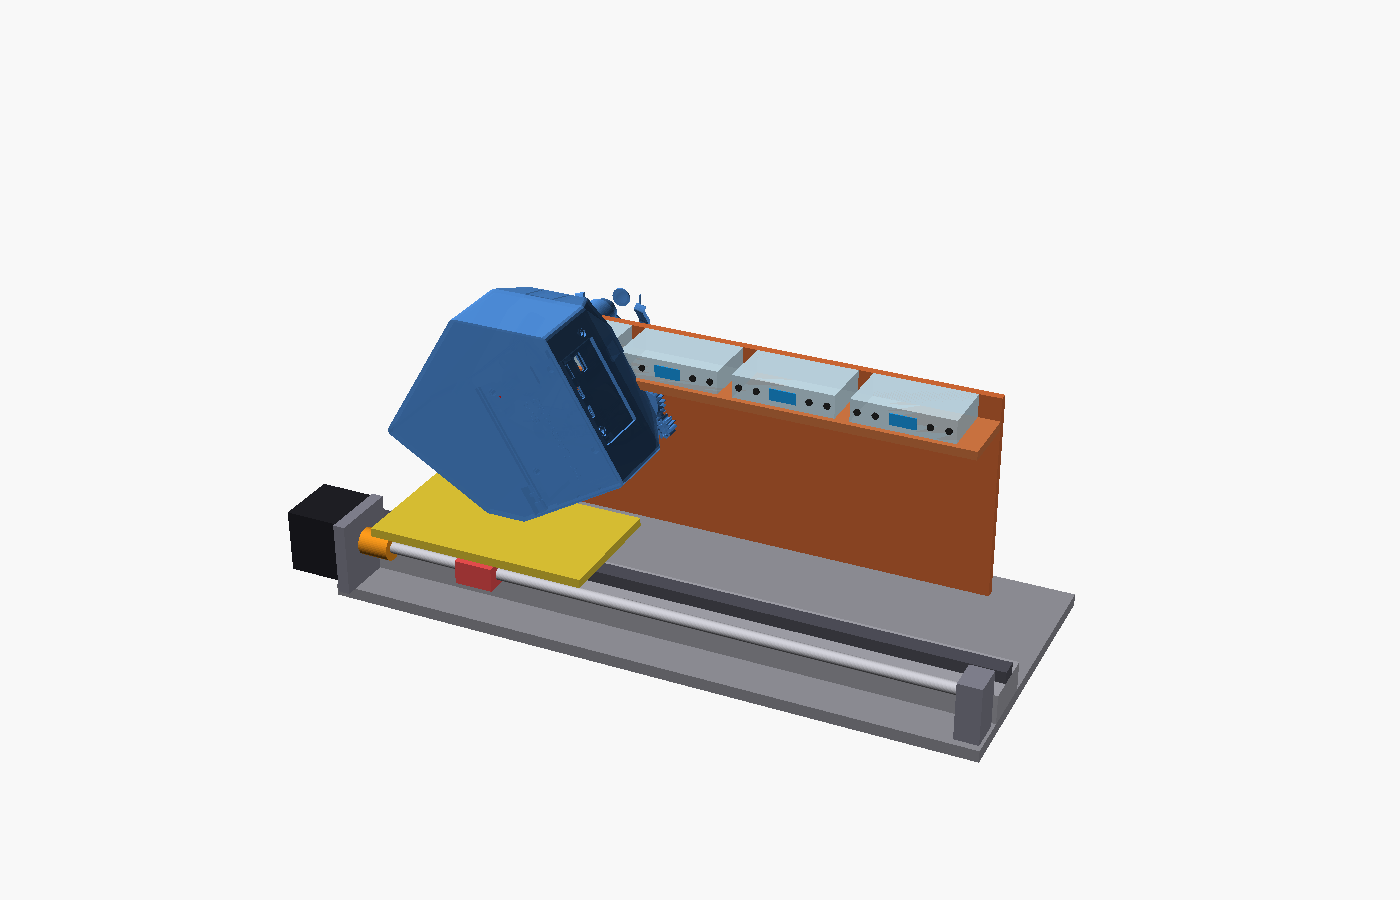
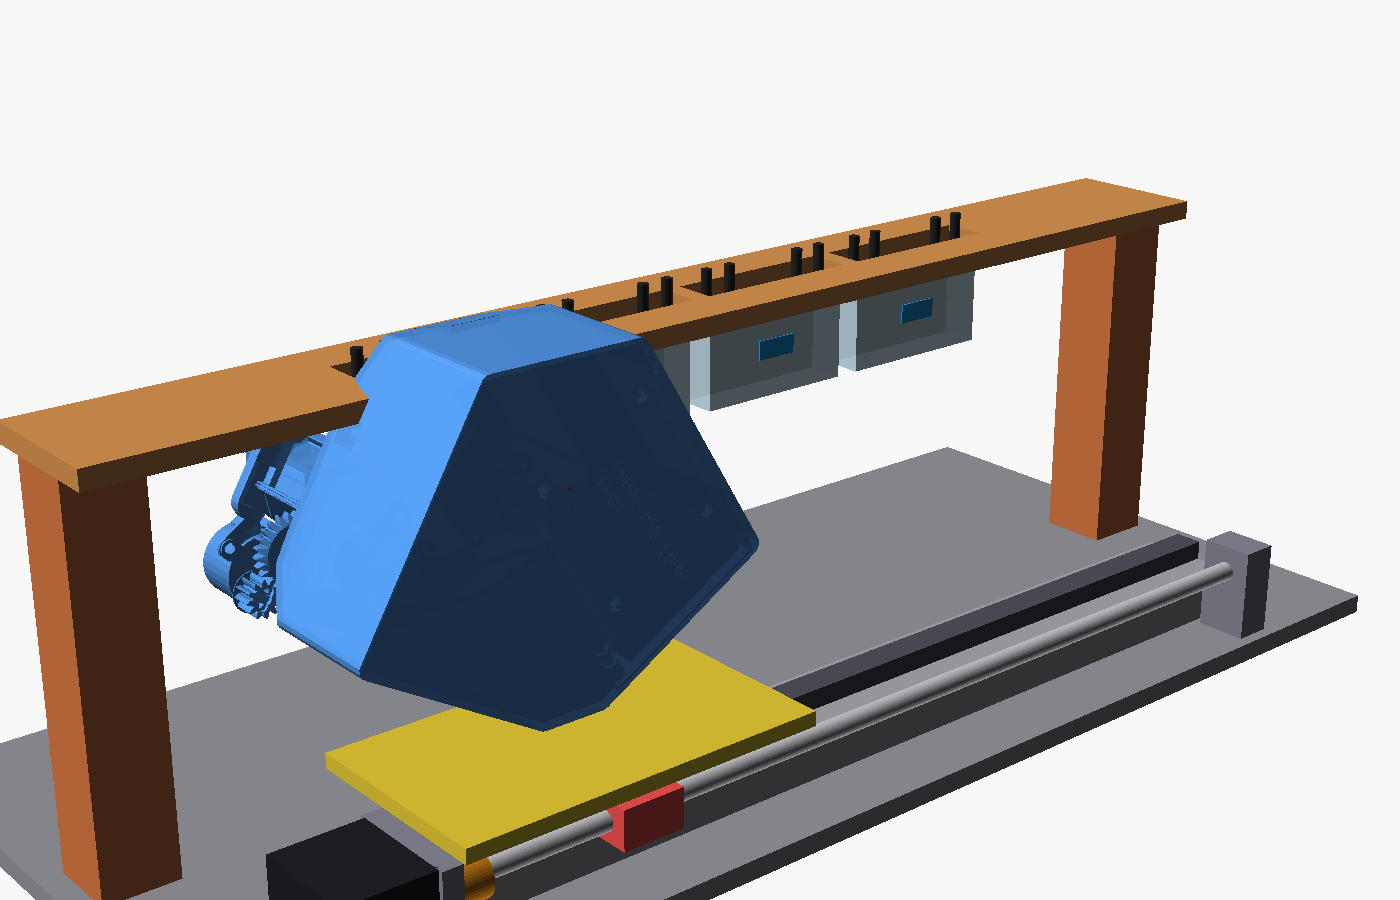
feat: hang bioreactors hochkant from bridge traverse in rail-mount draft
Chips now hang upright (70x16x40, imaged through the 16 mm thickness,
tubes exiting the top) from a continuous traverse board with per-station
cutouts on two end pillars, replacing the shelf/back-wall stand. Space
below the chips stays free for the moving mesoscope and its illumination
arm. Previews re-rendered from better angles.

diff --git a/docs/RAIL_MOUNT_CONCEPT.md b/docs/RAIL_MOUNT_CONCEPT.md
@@ -6,10 +6,11 @@
 >
 > **Schematic massing draft:** `hardware/mount/openscad/rail_mount_mesoscope.scad`
 > (parametric block model — shared **base plate (Grundplatte)**, the rail beam +
-> MGN12 guide under the moving microscope, back-support plate, NEMA17 + T8
-> leadscrew drive, and a **fixed reactor stand** carrying the stationary reactor
-> row). Previews:
-> `rail_mount_preview.png` (3/4) and `rail_mount_top.png` (elevation). This is a
+> MGN12 guide under the moving microscope, NEMA17 + T8 leadscrew drive, and a
+> **reactor bridge (Brücke)**: a continuous traverse board with per-station
+> cutouts from which the chips hang **hochkant**). Previews:
+> `rail_mount_preview.png` (3/4 from the objective side) and
+> `rail_mount_top.png` (3/4 from the light-source side, full row). This is a
 > massing model to make the layout discussable, **not** print-ready geometry.
 >
 > ✅ **Full mesoscope model embedded:** the placeholder envelope box is replaced by
@@ -31,10 +32,22 @@
 >
 > ✅ **Bioreactor STL integrated:** `hardware/bioreactors/chip_senkrecht_mit_bodenplatte.stl`.
 > Base plate (Bodenplatte) removed for the calculations per
-> instruction → chip body **70 × 40 × 16 mm**, optical window **18 × 8 mm**
-> centered on the microscope-facing face, flanked by 4 fluidic ports. Reactor
-> dims in the draft are now real; only the **series pitch** (reactor-to-reactor
-> spacing along X) is still an assumption (80 mm) to confirm.
+> instruction → chip body **70 × 40 × 16 mm**, optical window **18 × 8 mm**,
+> 4 fluidic ports. Only the **series pitch** (reactor-to-reactor spacing along
+> X) is still an assumption (80 mm) to confirm.
+>
+> ✅ **Hochkant + Brücke (2026-08-25):** the chips are now mounted **upright
+> (hochkant)** and **hang from a bridge** — a continuous traverse board
+> ("schmales Brett" in chip dimensions) with per-station cutouts
+> (Aussparungen), carried by two end pillars on the Grundplatte. Imaging goes
+> horizontally **through the 16 mm chip thickness**: light source on the +Y
+> side → chip → objective on the −Y side. The fluidic ports + tubes
+> (Schläuche) exit at the **top** — that is why top access is impossible and
+> the chips must hang, keeping the space **below** free for the moving
+> mesoscope incl. its illumination arm. Open: pillar clearance
+> (`bridge_x_clear = 120 mm` beyond the end stations) vs. microscope width at
+> the end stops, and the travel path of the microscope body under the hanging
+> row.
 
 This document captures the geometry, the mechanical concept, open decisions, and
 the reasoning behind them, so the next session can start from a shared picture.
@@ -50,7 +63,7 @@ imaging head** that scans a **row of bioreactors** arranged in series:
   face of the **Z-axis motor**, so the **optical axis becomes horizontal**.
 - Bind a **linear rail under the microscope** so it rides on a **carriage** in
   **X** (90° to the optical path) — **only the microscope moves.**
-- On the **same base plate (Grundplatte)**, a **fixed stand** holds the
+- On the **same base plate (Grundplatte)**, a **fixed bridge (Brücke)** holds the
   **bioreactors in a stationary row** at a working-distance offset along the
   optical axis. The reactors do **not** move with the carriage.
 - A **separate stepper drive** moves the microscope carriage in X so it travels
@@ -93,22 +106,31 @@ pre-tensioned for.
 ## 3. Mechanical concept — one shared base plate (Grundplatte)
 
 **Key principle:** the **rail (with the moving microscope)** and the **fixed
-reactor stand** both mount to **one rigid base plate (Grundplatte)**. Because
-both are referenced to the same foundation, the **optical-axis-to-sample distance
-is fixed by construction** and cannot drift; the stationary row of reactors stays
-coplanar and parallel to the rail. **Only the microscope travels**; the reactors
-stand still and the imaging head drives along them.
+reactor bridge (Brücke)** both mount to **one rigid base plate (Grundplatte)**.
+Because both are referenced to the same foundation, the **optical-axis-to-sample
+distance is fixed by construction** and cannot drift; the stationary row of
+reactors stays coplanar and parallel to the rail. **Only the microscope
+travels**; the reactors stand still and the imaging head drives along them.
+
+The reactors **hang hochkant from above**: a continuous traverse board
+("schmales Brett" in chip dimensions) spans the row on two end pillars, with a
+cutout (Aussparung) per station from which each chip hangs. The tubes
+(Schläuche) exit the chip tops through/above the board; the space **below** the
+chips stays completely free so the moving mesoscope — whose illumination arm
+sits below/beside the optical axis — can reach every station unobstructed.
 
 ```
-        (side view, gravity ↓)         reactors are FIXED, microscope moves ►
+   (view along the rail, gravity ↓)      reactors FIXED & HANGING, microscope moves ⊙
 
-   ┌───────────┐                         ┌──────────────────────────┐
-   │ Microscope│  optical axis  ───►     │  Fixed reactor row (stand)│
-   │ (tilted)  │═══════════════════════► │  [R1][R2][R3] … [Rn]      │
-   └────┬──────┘                         └───────────┬──────────────┘
-   ═════╪═══════ rail X (under microscope) ═══        │ fixed stand
-     ▲ MGN12 carriage + NEMA17/T8 drive               │
-   ▓▓▓▓▓▓▓▓▓▓▓▓▓▓▓▓▓▓  base plate (Grundplatte) = shared foundation ▓▓▓▓▓▓▓▓▓▓▓▓
+   pillar ─┐  ┌───────────── traverse board (cutouts per station) ─────┐┌─ pillar
+           ▓▓▓▓▓▓▓▓▓▓▓▓▓▓▓▓▓▓▓▓▓▓▓▓▓▓▓▓▓▓▓▓▓▓▓▓▓▓▓▓▓▓▓▓▓▓▓▓▓▓▓▓▓▓▓▓▓▓▓
+           ║        ║ tubes ↑↑            ║                             ║
+           ║      ┌─┴─┐  chip hochkant    ║   ┌───────────┐             ║
+           ║      │ R │◄── optical axis ──╫───│ Microscope│ (tilted)    ║
+           ║      └───┘  (through 16 mm)  ║   │ objective─┘◄─ light arm ║
+           ║   free space below ▼         ║   └────┬──────┘             ║
+           ║                              ║   ═════╪═════ rail X        ║
+   ▓▓▓▓▓▓▓▓▓▓▓▓▓▓▓▓▓  base plate (Grundplatte) = shared foundation ▓▓▓▓▓▓▓▓▓▓▓
 ```
 
 Sub-assemblies:
@@ -116,10 +138,12 @@ Sub-assemblies:
    the adapter interfaces the tilted microscope body (Z-motor face + an
    additional support) to the MGN12 carriage. Must resist the transverse gravity
    moment (long lever arm of the Pi5 + AI HAT + camera + optics tower).
-2. **Fixed reactor stand** — a stationary parametric holder rising from the
-   Grundplatte (back wall + shelf) that holds the reactors in series at the
-   correct height/spacing so each optical window lands on the optical axis. It is
-   **not** attached to the carriage or the rail beam.
+2. **Reactor bridge (Brücke)** — a stationary traverse board with per-station
+   cutouts, on two end pillars rising from the Grundplatte, holding the chips
+   hanging hochkant at the correct height/spacing so each optical window lands
+   on the optical axis. It is **not** attached to the carriage or the rail beam.
+   The pillars stand `bridge_x_clear` beyond the end stations so the microscope
+   body clears them at the end stops.
 
 ---
 
@@ -129,7 +153,7 @@ Decision was left open ("Empfehlungen?"). Recommendation:
 
 | Element | Choice | Rationale |
 |---|---|---|
-| Foundation | **Base plate (Grundplatte)** | Shared reference for the rail and the fixed reactor stand → fixed working distance. |
+| Foundation | **Base plate (Grundplatte)** | Shared reference for the rail and the fixed reactor bridge → fixed working distance. |
 | Structural beam | **2040 V-Slot aluminium extrusion** | Stiff, cheap; carries the rail under the microscope, mounted on the Grundplatte. |
 | Guide | **MGN12 profile rail + carriage** | Low play / high stiffness for the cantilevered microscope mass; clean mounting hole pattern. |
 | Drive | **NEMA17 + T8 leadscrew (anti-backlash nut)** | Self-locking → holds position at each stop without current; no backlash for step-and-image. |
@@ -174,14 +198,20 @@ mounting/handling feature, not part of the reactor envelope.
 
 Measured (base plate excluded):
 
-| Feature | Value | Axis in mount |
+| Feature | Value | Axis in mount (hochkant, hanging) |
 |---|---|---|
 | Chip body width | **70 mm** | X (along rail) |
-| Chip body depth | **40 mm** | Y (toward microscope; plate was the +Y face) |
-| Chip body height | **16 mm** | Z (vertical) |
-| Optical window | **18 × 8 mm**, centered on the microscope-facing (−Y) face, at mid-height | window on optical axis |
-| Fluidic ports | 4 × ⌀ ~4.5 mm, flanking the window on the same face | — |
+| Chip body thickness | **16 mm** | Y (**along the optical axis** — imaged through) |
+| Chip body height | **40 mm** | Z (vertical, hanging from the bridge) |
+| Optical window | **18 × 8 mm**, centered on the objective-facing (−Y) face, on the optical axis | window on optical axis |
+| Fluidic ports | 4 × ⌀ ~4.5 mm, exiting the **top** edge (tubes go up) | — |
 | Base plate (removed) | 140 × 100 mm thin panel | ignored for calculations |
+
+**Orientation rationale:** the chip is imaged in **trans-illumination through
+its 16 mm thickness** — light source on +Y, objective on −Y. The tubes leave
+the ports on the top edge, so the chip cannot be accessed or held from above
+by anything bulky and cannot rest on a shelf below (the mesoscope needs that
+space); hence it **hangs hochkant from the bridge cutout**.
 
 These values are now hard-wired as defaults in the SCAD reactor block. The rack
 stays **parametric** (`n_reactors`, `reactor_pitch`, `reactor_w/d/h`, window
